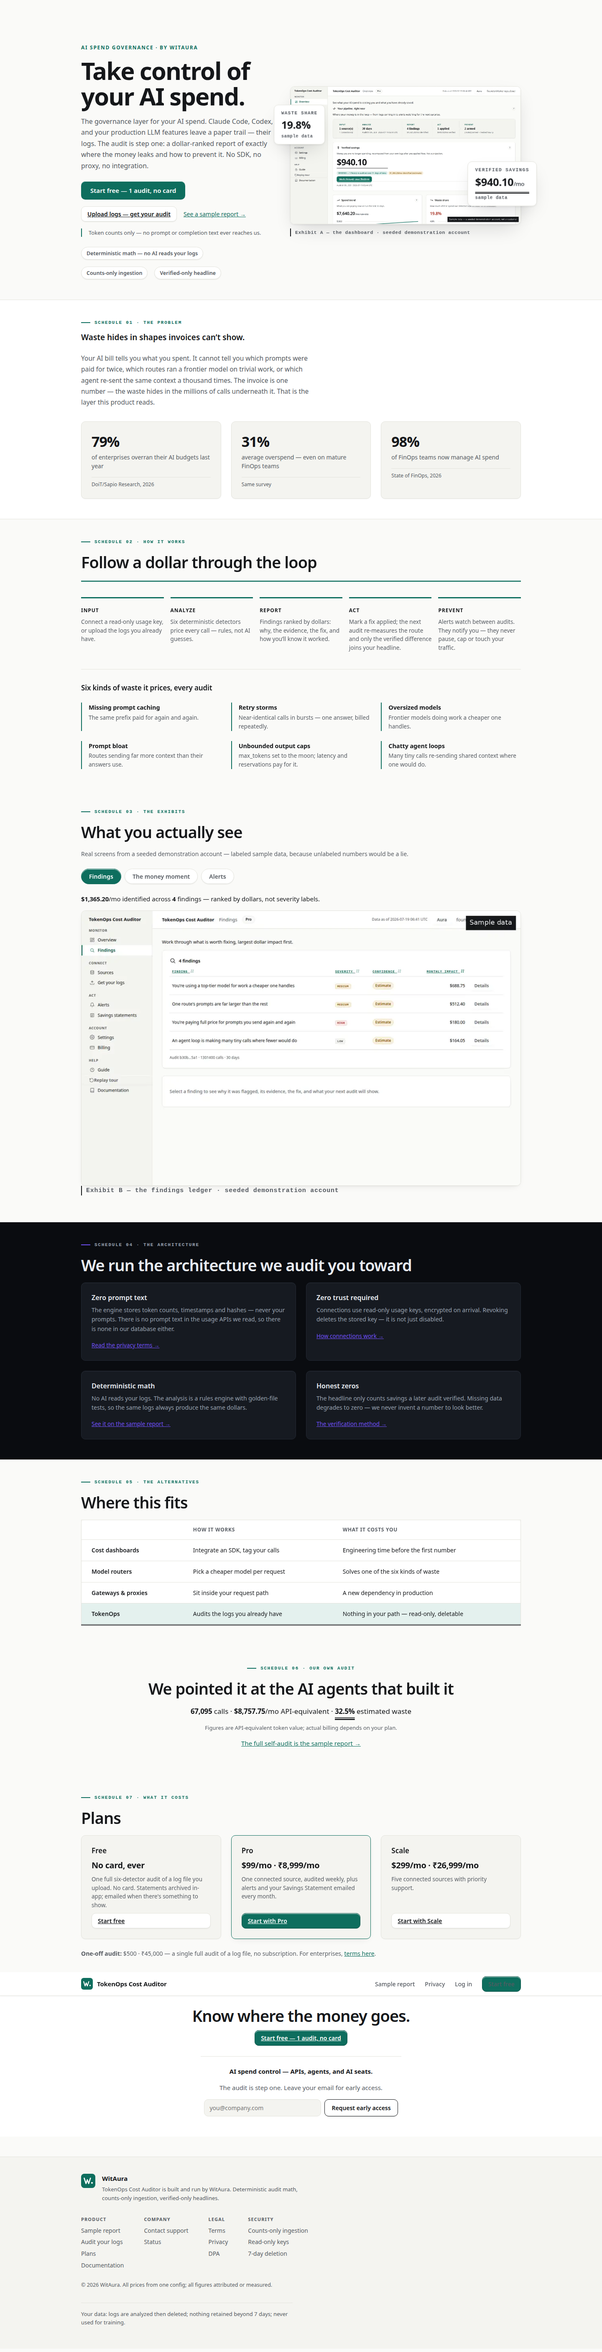
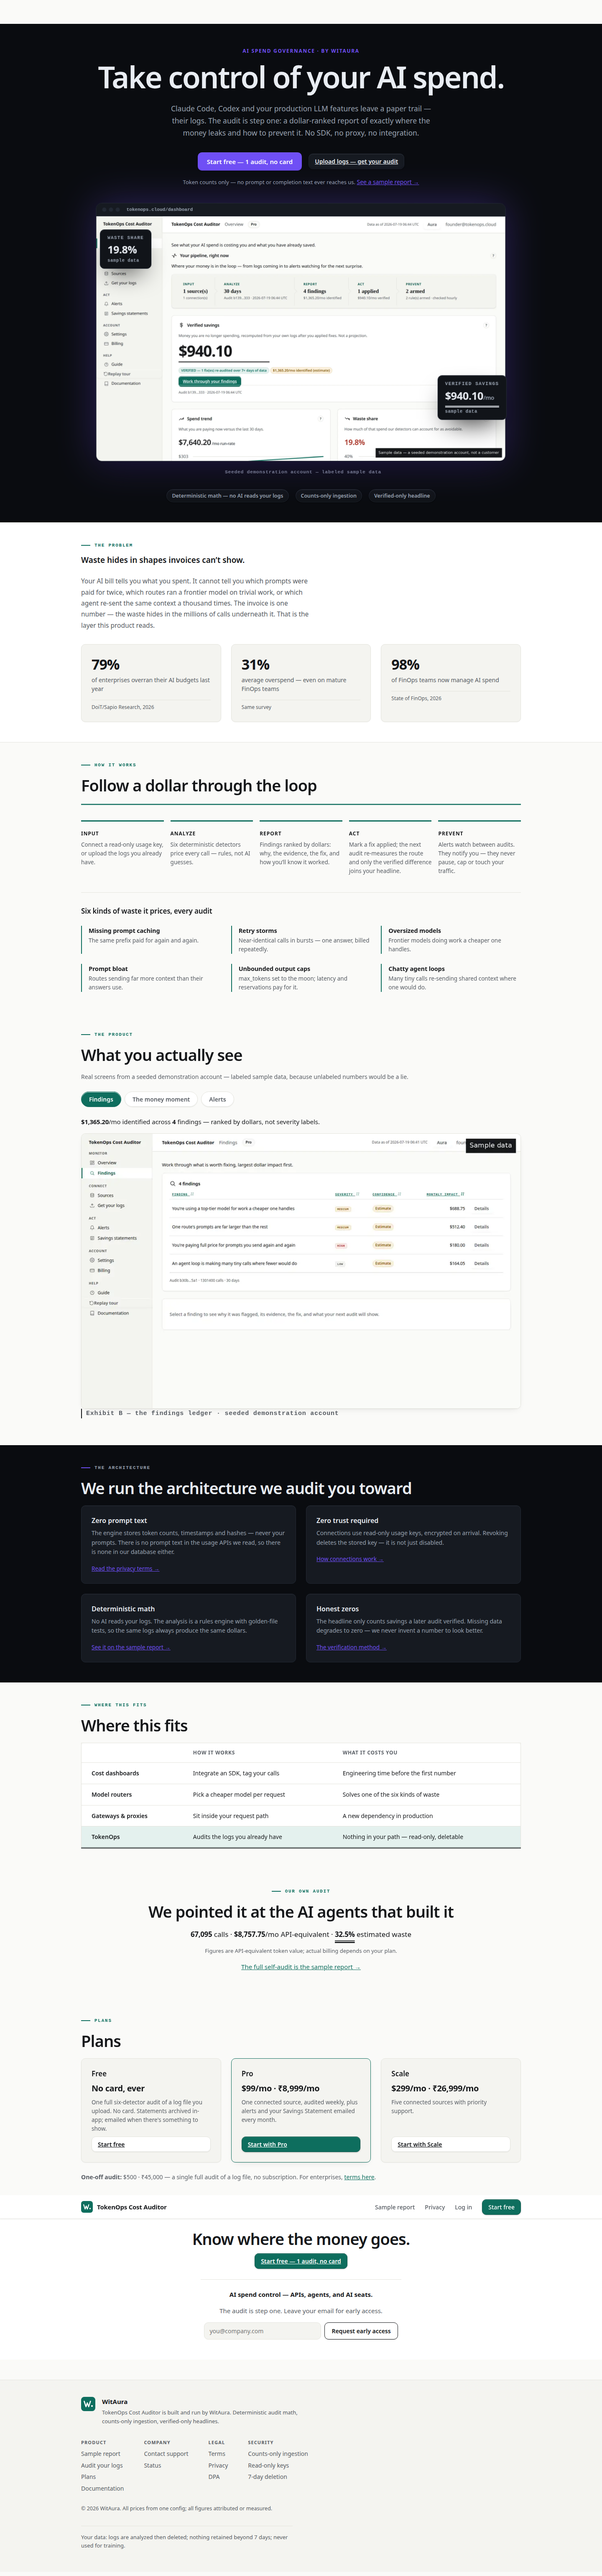
feat: modern-SaaS hero — full-bleed aura fold, framed glowing product shot
Founder walkthrough round 4, judged against the live page myself and
agreed: the light hero read anonymous, the shot small and unframed, the
schedule numbering editorial where the founder asked for the familiar
modern grammar. Rebuilt: full-bleed dark hero on aura's value sheet
(precedented by the architecture band), centered display headline to
72px, product shot large in a browser frame under the accent glow,
float cards riding it, honest exhibit caption centered, proof chips
dark-styled; schedule NUMBERING removed (clean eyebrows stay); body
remains sanchaya. Two computed-style bugs fixed at cause: .pub-nav a
out-specified .btn-primary (CTA text washed to ink-soft — now asserted
white in the capture) and the neumorphic white inset washed text on all
saturated primary fills (new --control-depth-primary token, both moods).

Laws held: aura values only (zero new colours), ONE cta, FR-23,
attributed stats, ruled section order, budgets green.

diff --git a/src/tokenops_cost_auditor/web/templates/landing.html b/src/tokenops_cost_auditor/web/templates/landing.html
@@ -21,47 +21,34 @@
 <main class="pub-main land">
 
   {# ============ 1 · HERO — pain + platform + the 3D moment (C1) ============ #}
-  <section class="land-hero">
-    <div class="wrap hero-grid">
-      <div class="hero-copy" data-entrance>
-        <p class="hero-eyebrow">AI spend governance · by WitAura</p>
-        {% if hero_variant == "billshock" %}
-        <h1>Just got an AI bill you can&rsquo;t explain?</h1>
-        {% else %}
-        <h1>Take control of your AI spend.</h1>
-        {% endif %}
-        <p class="hero-sub">The governance layer for your AI spend. Claude Code,
-          Codex, and your production LLM features leave a paper trail — their
-          logs. The audit is step one: a dollar-ranked report of exactly where
-          the money leaks and how to prevent it. No SDK, no proxy, no
-          integration.</p>
-        <p class="hero-ctas">
-          <a class="cta" href="/signup">Start free — 1 audit, no card</a>
-          <a class="btn" href="/upload">Upload logs — get your audit</a>
-          <a class="hero-sample" href="/sample">See a sample report →</a>
-        </p>
-        <p class="hero-note">Token counts only — no prompt or completion text
-          ever reaches us.</p>
-        <ul class="hero-proof" aria-label="How it earns trust">
-          <li>Deterministic math — no AI reads your logs</li>
-          <li>Counts-only ingestion</li>
-          <li>Verified-only headline</li>
-        </ul>
-      </div>
-      {# THE 3D MOMENT (spec C1): a real dashboard capture from the seeded
-         demonstration account, tilting on pointer. Reduced-motion/no-JS:
-         static, flat, full lift — the fallback carries the same information. #}
-      {# THE 3D MOMENT, deepened (C1 tilt + C9 float): a layered scene — the
-         dashboard exhibit with the fold's live figures floating above it at
-         real z-depths, as TYPE, labeled sample data. #}
+  <section class="land-hero" data-mood="aura">
+    <div class="wrap hero-center" data-entrance>
+      <p class="hero-eyebrow">AI spend governance · by WitAura</p>
+      {% if hero_variant == "billshock" %}
+      <h1>Just got an AI bill you can&rsquo;t explain?</h1>
+      {% else %}
+      <h1>Take control of your AI spend.</h1>
+      {% endif %}
+      <p class="hero-sub">Claude Code, Codex and your production LLM features
+        leave a paper trail — their logs. The audit is step one: a dollar-ranked
+        report of exactly where the money leaks and how to prevent it.
+        No SDK, no proxy, no integration.</p>
+      <p class="hero-ctas">
+        <a class="cta" href="/signup">Start free — 1 audit, no card</a>
+        <a class="btn hero-alt" href="/upload">Upload logs — get your audit</a>
+      </p>
+      <p class="hero-note">Token counts only — no prompt or completion text ever
+        reaches us. <a class="hero-sample" href="/sample">See a sample report →</a></p>
+    </div>
+    <div class="wrap">
+      {# THE 3D MOMENT (C1 tilt + C9 float): the product, large, framed, lit. #}
       <div class="hero-scene" data-tilt>
         <div class="scene-inner">
-          <div class="hero-shot">
+          <div class="browser-frame">
+            <div class="bf-bar" aria-hidden="true"><i></i><i></i><i></i>
+              <span class="bf-url">tokenops.cloud/dashboard</span></div>
             <img src="{{ asset('/static/land/hero-dashboard-sample.webp') }}" width="1080" height="645"
                  alt="The TokenOps dashboard: a verified-savings headline over the audit pipeline — sample data from a seeded demonstration account">
-            {# every screenshot on this page is an EXHIBIT — the audit's own
-               evidence language, and the honesty label in one device #}
-            <p class="exhibit">Exhibit A — the dashboard · seeded demonstration account</p>
           </div>
           <div class="float-card float-a">
             <span class="fc-k">Verified savings</span>
@@ -75,14 +62,20 @@
             <span class="fc-s">sample data</span>
           </div>
         </div>
+        <p class="exhibit exhibit-center">Seeded demonstration account — labeled sample data</p>
       </div>
+      <ul class="hero-proof hero-proof-center" aria-label="How it earns trust">
+        <li>Deterministic math — no AI reads your logs</li>
+        <li>Counts-only ingestion</li>
+        <li>Verified-only headline</li>
+      </ul>
     </div>
   </section>
 
   {# ============ 2 · PROBLEM STRIP — three attributed cards ============ #}
   <section class="land-strip" data-reveal>
     <div class="wrap">
-      <p class="sched">Schedule 01 · The problem</p>
+      <p class="sched">The problem</p>
       <p class="strip-line">Waste hides in shapes invoices can&rsquo;t show.</p>
       <p class="strip-lede">Your AI bill tells you what you spent. It cannot
         tell you which prompts were paid for twice, which routes ran a frontier
@@ -112,7 +105,7 @@
   {# ============ 3 · HOW IT WORKS — the pipeline, lit in sequence (C3) ====== #}
   <section class="land-pipe" id="how-it-works">
     <div class="wrap">
-      <p class="sched" data-reveal>Schedule 02 · How it works</p>
+      <p class="sched" data-reveal>How it works</p>
       <h2 data-reveal>Follow a dollar through the loop</h2>
       <div class="pipe-wrap">
         <svg class="pipe-line" viewBox="0 0 1000 8" preserveAspectRatio="none" aria-hidden="true">
@@ -166,7 +159,7 @@
   {# ============ 4 · PRODUCT TOUR — tabs (C5) + count-ups (C4) ============ #}
   <section class="land-tour" data-reveal>
     <div class="wrap">
-      <p class="sched">Schedule 03 · The exhibits</p>
+      <p class="sched">The product</p>
       <h2>What you actually see</h2>
       <p class="tour-cap">Real screens from a seeded demonstration account —
         labeled sample data, because unlabeled numbers would be a lie.</p>
@@ -207,7 +200,7 @@
   {# ============ 5 · GOVERNANCE — the architecture, with proofs ============ #}
   <section class="land-gov" data-reveal data-mood="aura">
     <div class="wrap">
-      <p class="sched sched-dark">Schedule 04 · The architecture</p>
+      <p class="sched sched-dark">The architecture</p>
       <h2>We run the architecture we audit you toward</h2>
       <div class="gov-grid">
         <div class="gov-item">
@@ -242,7 +235,7 @@
   {# ============ 6 · COMPARISON STRIP — categories, never vendors ========== #}
   <section class="land-compare" data-reveal>
     <div class="wrap">
-      <p class="sched">Schedule 05 · The alternatives</p>
+      <p class="sched">Where this fits</p>
       <h2>Where this fits</h2>
       <table class="compare">
         <thead><tr><th scope="col"></th><th scope="col">How it works</th><th scope="col">What it costs you</th></tr></thead>
@@ -259,7 +252,7 @@
   {# ============ 7 · SELF-AUDIT PROOF ============ #}
   <section class="land-proof" data-reveal>
     <div class="wrap">
-      <p class="sched">Schedule 06 · Our own audit</p>
+      <p class="sched">Our own audit</p>
       <h2>We pointed it at the AI agents that built it</h2>
       <p class="proof-line"><span class="money proof-n">67,095</span> calls ·
         <span class="money proof-n">$8,757.75</span>/mo API-equivalent ·
@@ -276,7 +269,7 @@
   {# ============ 8 · PLANS — from the price config, never inlined ========== #}
   <section class="land-plans" data-reveal id="plans">
     <div class="wrap">
-      <p class="sched">Schedule 07 · What it costs</p>
+      <p class="sched">Plans</p>
       <h2>Plans</h2>
       <div class="plan-cards">
         {% for p in catalogue %}

diff --git a/src/tokenops_cost_auditor/web/static/wa-public.css b/src/tokenops_cost_auditor/web/static/wa-public.css
@@ -374,3 +374,49 @@
 @media (max-width: 860px) {
   .float-a { right: 4px; } .float-b { left: 4px; }
 }
+
+/* ============================================================
+   MODERN-SAAS HERO (founder walkthrough round 4): full-bleed
+   aura hero, centered display type, framed glowing product shot.
+   Aura's own value sheet — zero new colours.
+   ============================================================ */
+.land-hero[data-mood="aura"] { background: var(--ground); color: var(--ink);
+  padding: calc(var(--s6) + 8px) 0 var(--s6); }
+.hero-center { text-align: center; max-width: 900px; }
+.hero-center .hero-eyebrow { color: var(--accent); }
+.hero-center h1 { font-size: clamp(40px, 5.4vw, 72px); line-height: 1.04;
+  letter-spacing: -0.035em; margin: 0 0 var(--s3); }
+.hero-center .hero-sub { color: var(--ink-soft); font-size: 17.5px;
+  max-width: 640px; margin: 0 auto var(--s4); }
+.hero-center .hero-ctas { justify-content: center; }
+.hero-center .hero-note { border-left: 0; padding-left: 0; margin-top: var(--s2); }
+.hero-alt { background: var(--surface-raised); color: var(--ink);
+  border-color: var(--rule); }
+.hero-sample { color: var(--accent); }
+
+.land-hero .hero-scene { max-width: 980px; margin: var(--s5) auto 0; }
+.browser-frame { border-radius: 14px; overflow: hidden;
+  border: 1px solid var(--rule);
+  box-shadow: 0 0 90px var(--accent-ring), var(--lift-3); background: var(--surface); }
+.bf-bar { display: flex; align-items: center; gap: 6px;
+  background: var(--surface-raised); border-bottom: 1px solid var(--rule);
+  padding: 9px 14px; }
+.bf-bar i { width: 10px; height: 10px; border-radius: 50%; background: var(--rule); }
+.bf-url { font: 600 11px var(--mono); color: var(--ink-soft); margin-left: 10px; }
+.browser-frame img { display: block; width: 100%; height: auto; border: 0;
+  border-radius: 0; box-shadow: none; }
+.exhibit-center { border-left: 0; text-align: center; margin-top: var(--s2); }
+.hero-proof-center { justify-content: center; margin-top: var(--s4); }
+.land-hero[data-mood="aura"] .hero-proof li { background: var(--surface);
+  border-color: var(--rule); color: var(--ink-soft); }
+.land-hero .float-a { right: 3%; bottom: 18%; }
+.land-hero .float-b { left: 3%; top: 12%; }
+
+@media (max-width: 860px) {
+  .land-hero .float-a, .land-hero .float-b { display: none; }
+  .hero-center h1 { font-size: 38px; }
+}
+
+/* the nav's link colour rule (.pub-nav a) out-specified .btn-primary and
+   washed the CTA text to ink-soft on accent — found by computed style. */
+.pub-nav a.btn-primary { color: var(--on-accent); }

diff --git a/design/wa-design.css b/design/wa-design.css
@@ -50,6 +50,9 @@
   --control-depth-pressed:
     inset 0 2px 4px rgba(21,23,26,.12),
     inset 0 -1px 0 rgba(255,255,255,.5);
+  --control-depth-primary:
+    inset 0 1px 0 rgba(255,255,255,.16),
+    0 1px 3px rgba(21,23,26,.25);
 
   /* data surfaces: flat-crisp */
   --lift-1: 0 1px 2px rgba(21,23,26,.05);
@@ -86,6 +89,9 @@
   --control-depth-pressed:
     inset 0 2px 5px rgba(0,0,0,.55),
     inset 0 -1px 0 rgba(255,255,255,.05);
+  --control-depth-primary:
+    inset 0 1px 0 rgba(255,255,255,.14),
+    0 1px 3px rgba(0,0,0,.6);
 
   /* in the dark a drop shadow is invisible; depth is a light edge */
   --lift-1: inset 0 1px 0 rgba(255,255,255,.04);
@@ -168,7 +174,8 @@ a { color: var(--accent); }
   transition: transform var(--t-fast) var(--ease), box-shadow var(--t-fast) var(--ease); }
 .btn:active { transform: scale(0.98); box-shadow: var(--control-depth-pressed); }             /* micro-confirmation */
 .btn:focus-visible { outline: 2px solid var(--accent); outline-offset: 2px; }
-.btn-primary { background: var(--accent); border-color: var(--accent-ink); color: var(--on-accent); }
+.btn-primary { background: var(--accent); border-color: var(--accent-ink); color: var(--on-accent);
+  box-shadow: var(--control-depth-primary); }  /* the white neumorphic inset washed text on saturated fills */
 .btn-primary:hover { background: var(--accent-ink); }
 .btn-quiet { border-color: transparent; background: transparent; color: var(--ink-soft); }
 

diff --git a/src/tokenops_cost_auditor/web/static/wa-design.css b/src/tokenops_cost_auditor/web/static/wa-design.css
@@ -50,6 +50,9 @@
   --control-depth-pressed:
     inset 0 2px 4px rgba(21,23,26,.12),
     inset 0 -1px 0 rgba(255,255,255,.5);
+  --control-depth-primary:
+    inset 0 1px 0 rgba(255,255,255,.16),
+    0 1px 3px rgba(21,23,26,.25);
 
   /* data surfaces: flat-crisp */
   --lift-1: 0 1px 2px rgba(21,23,26,.05);
@@ -86,6 +89,9 @@
   --control-depth-pressed:
     inset 0 2px 5px rgba(0,0,0,.55),
     inset 0 -1px 0 rgba(255,255,255,.05);
+  --control-depth-primary:
+    inset 0 1px 0 rgba(255,255,255,.14),
+    0 1px 3px rgba(0,0,0,.6);
 
   /* in the dark a drop shadow is invisible; depth is a light edge */
   --lift-1: inset 0 1px 0 rgba(255,255,255,.04);
@@ -168,7 +174,8 @@ a { color: var(--accent); }
   transition: transform var(--t-fast) var(--ease), box-shadow var(--t-fast) var(--ease); }
 .btn:active { transform: scale(0.98); box-shadow: var(--control-depth-pressed); }             /* micro-confirmation */
 .btn:focus-visible { outline: 2px solid var(--accent); outline-offset: 2px; }
-.btn-primary { background: var(--accent); border-color: var(--accent-ink); color: var(--on-accent); }
+.btn-primary { background: var(--accent); border-color: var(--accent-ink); color: var(--on-accent);
+  box-shadow: var(--control-depth-primary); }  /* the white neumorphic inset washed text on saturated fills */
 .btn-primary:hover { background: var(--accent-ink); }
 .btn-quiet { border-color: transparent; background: transparent; color: var(--ink-soft); }
 
